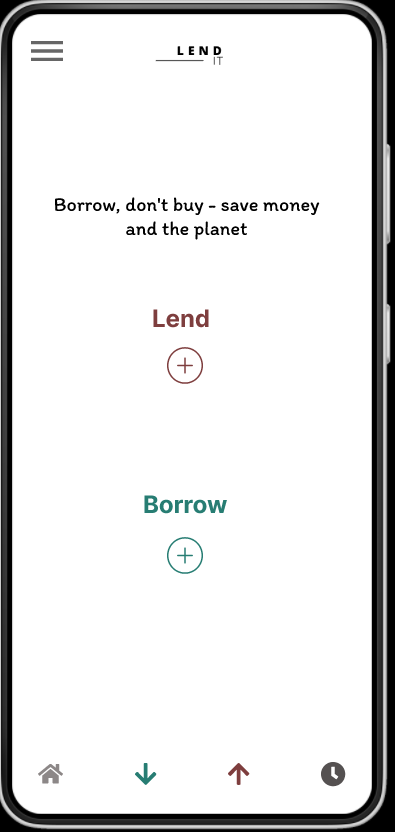
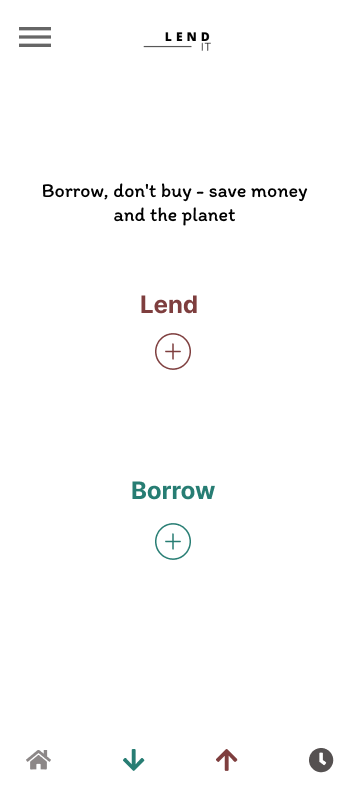
created home page

diff --git a/src/pages/Home.tsx b/src/pages/Home.tsx
@@ -1,25 +1,21 @@
-import { IonContent, IonHeader, IonPage, IonTitle, IonToolbar } from '@ionic/react';
-import ExploreContainer from '../components/ExploreContainer';
+
+import Menu from '../components/Home/Menu';
+import Navbar from '../components/Home/Navbar';
 import './styles/Home.css';
 
 export const Home: React.FC = () => {
   return (
-    <IonPage>
-      <IonHeader>
-        <IonToolbar>
-          <IonTitle>app, logo & logout</IonTitle>
-        </IonToolbar>
-      </IonHeader>
-      <IonContent fullscreen>
-        <IonHeader collapse="condense">
-          <IonToolbar>
-            <IonTitle size="large">Blank</IonTitle>
-          </IonToolbar>
-        </IonHeader>
-        <ExploreContainer />
-      </IonContent>
-    </IonPage>
+    <>
+    <Menu/>
+    <Navbar/>
+  
+     
+     
+     
+     
+   </>
   );
 };
+export default Home;
 
 

diff --git a/src/pages/styles/Home.css b/src/pages/styles/Home.css
@@ -1,0 +1,11 @@
+.button-home {
+  position: absolute;
+  top: 50%;
+  left: 50%;
+  transform: translate(-50%, -50%);
+}
+
+.ion-icon {
+  color: #3880ff;
+  font-size: 64px;
+}
